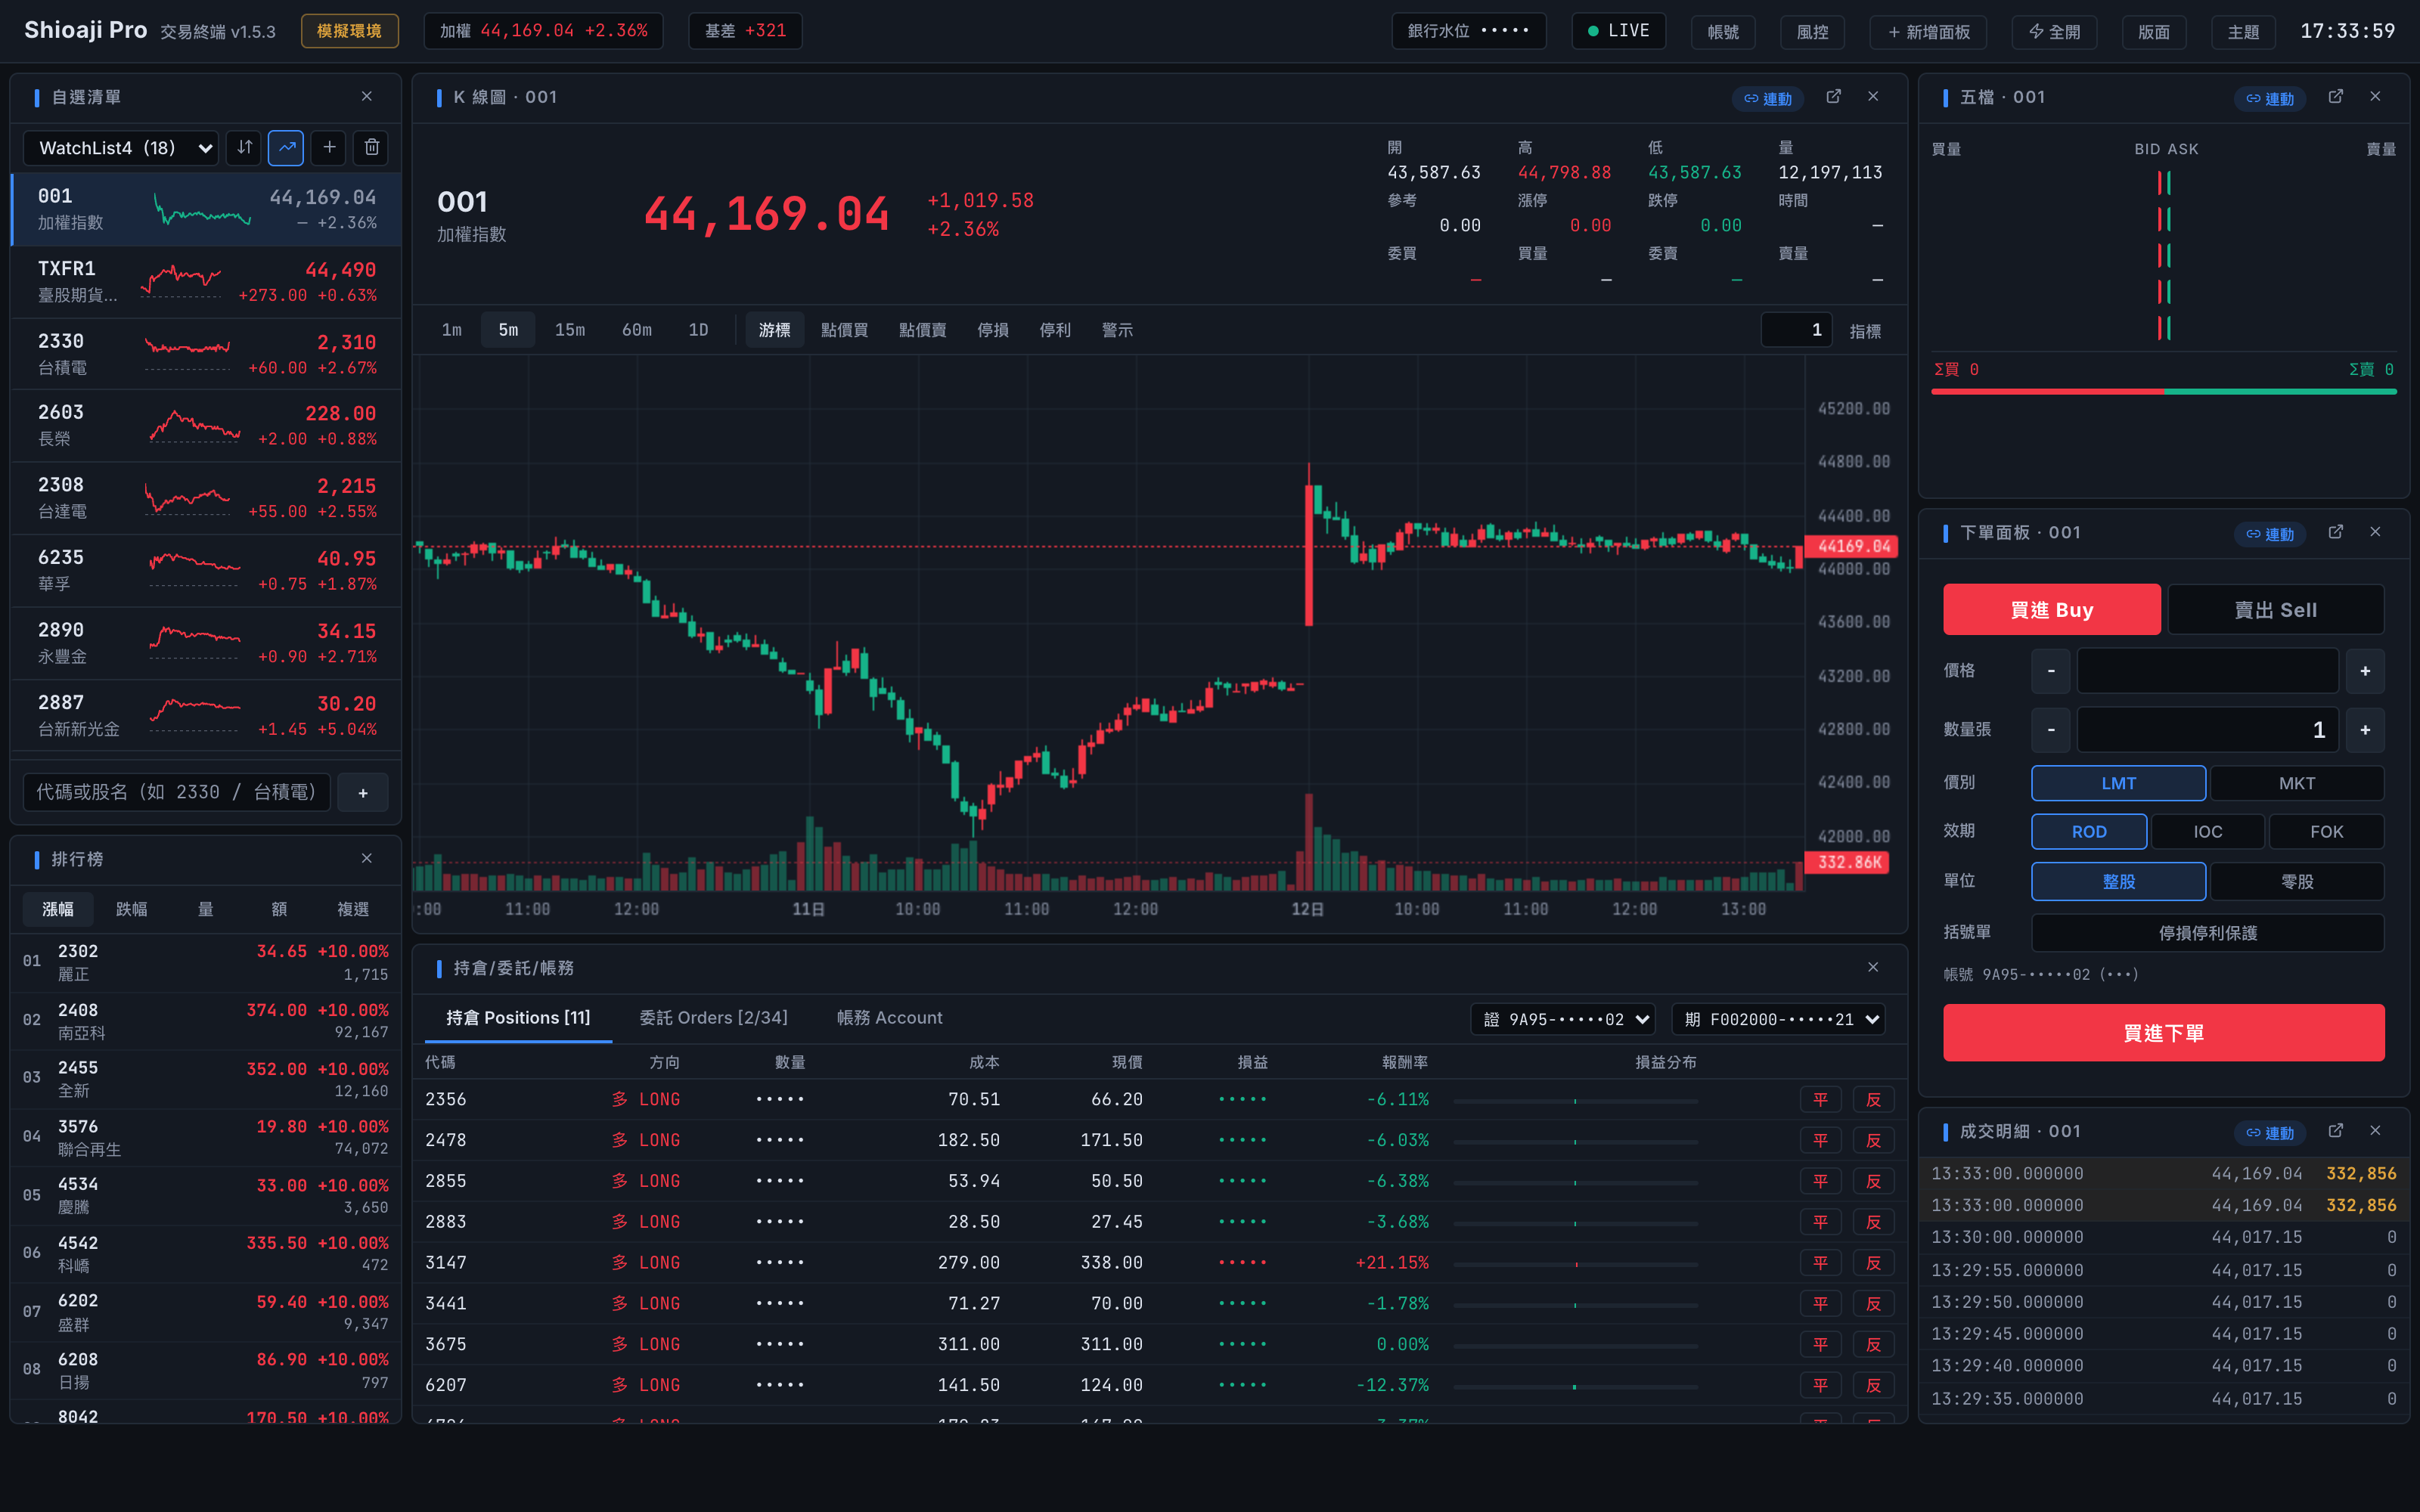
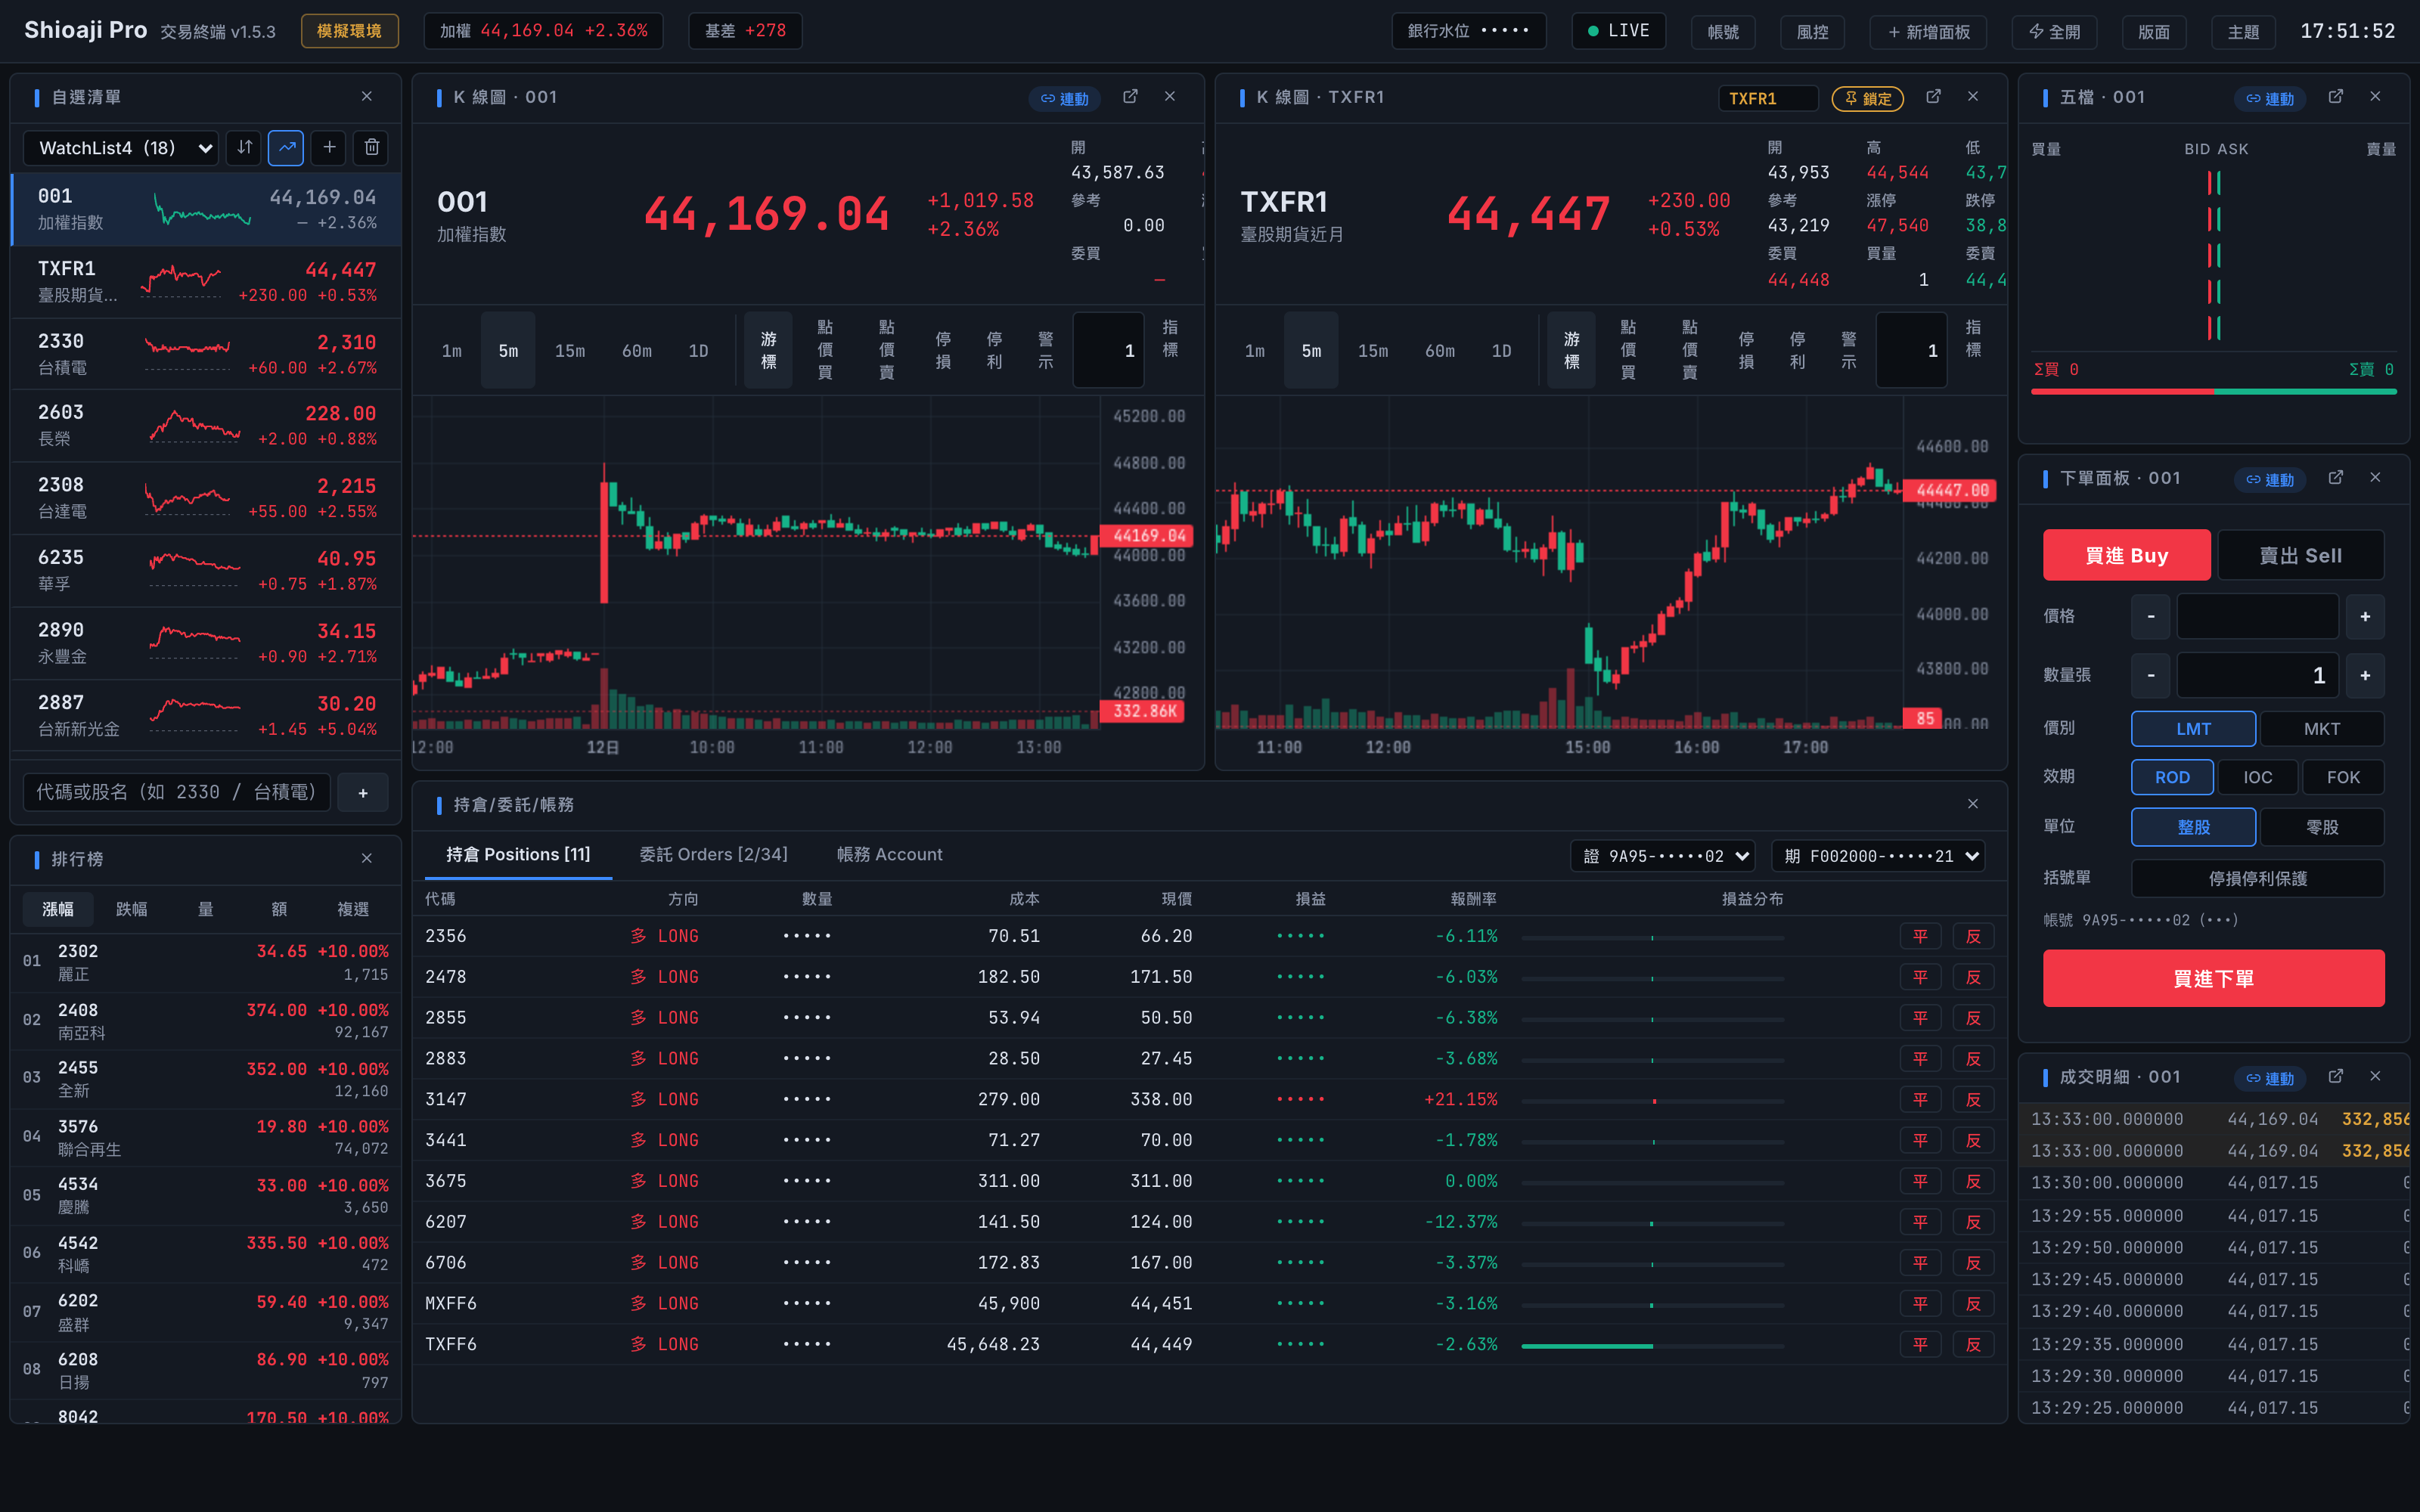
Landing hero: dual-chart layout (加權+台指期); 3 new layout presets
- Hero screenshots retaken with two candle charts side by side (linked
  001 + pinned TXFR1) to show terminal completeness; privacy mode on
- New 版面 presets built around the new panels: 鋪單交易 (grid+flash+
  depth/tape), 熱力選股 (heatmap+movers→chart), AI 副駕 (assistant
  sidebar + chart/dock/notices); 選擇權 preset gains the payoff panel

diff --git a/src/lib/workspace.ts b/src/lib/workspace.ts
@@ -255,7 +255,7 @@ export const LAYOUT_PRESETS: { name: string; desc: string; workspace: Workspace 
     },
     {
         name: '選擇權',
-        desc: 'T字報價+台指期圖+下單',
+        desc: 'T字報價+台指期圖+損益圖+下單',
         workspace: {
             blocks: [
                 { id: 'opt-ow', type: 'optchain', pin: null },
@@ -263,13 +263,77 @@ export const LAYOUT_PRESETS: { name: string; desc: string; workspace: Workspace 
                 { id: 'ticket-ow', type: 'ticket', pin: null },
                 { id: 'depth-ow', type: 'depth', pin: null },
                 { id: 'dock-ow', type: 'dock', pin: null },
+                { id: 'optpnl-ow', type: 'optpnl', pin: null },
             ],
             layout: [
                 { i: 'opt-ow', x: 0, y: 0, w: 10, h: 16, minW: 8, minH: 8 },
                 { i: 'chart-ow', x: 10, y: 0, w: 9, h: 16, minW: 6, minH: 7 },
                 { i: 'ticket-ow', x: 19, y: 0, w: 5, h: 10, minW: 4, minH: 9 },
                 { i: 'depth-ow', x: 19, y: 10, w: 5, h: 6, minW: 4, minH: 6 },
-                { i: 'dock-ow', x: 0, y: 16, w: 24, h: 8, minW: 6, minH: 5 },
+                { i: 'dock-ow', x: 0, y: 16, w: 16, h: 9, minW: 6, minH: 5 },
+                { i: 'optpnl-ow', x: 16, y: 16, w: 8, h: 9, minW: 6, minH: 9 },
+            ],
+        },
+    },
+    {
+        name: '鋪單交易',
+        desc: '鋪單+閃電+五檔明細，掛單火力全開',
+        workspace: {
+            blocks: [
+                { id: 'chart-gr', type: 'chart', pin: null },
+                { id: 'flash-gr', type: 'flash', pin: null },
+                { id: 'grid-gr', type: 'grid', pin: null },
+                { id: 'depth-gr', type: 'depth', pin: null },
+                { id: 'dock-gr', type: 'dock', pin: null },
+                { id: 'tape-gr', type: 'tape', pin: null },
+            ],
+            layout: [
+                { i: 'chart-gr', x: 0, y: 0, w: 12, h: 14, minW: 6, minH: 7 },
+                { i: 'flash-gr', x: 12, y: 0, w: 6, h: 14, minW: 4, minH: 8 },
+                { i: 'grid-gr', x: 18, y: 0, w: 6, h: 14, minW: 4, minH: 10 },
+                { i: 'depth-gr', x: 0, y: 14, w: 6, h: 10, minW: 4, minH: 7 },
+                { i: 'dock-gr', x: 6, y: 14, w: 12, h: 10, minW: 6, minH: 5 },
+                { i: 'tape-gr', x: 18, y: 14, w: 6, h: 10, minW: 3, minH: 4 },
+            ],
+        },
+    },
+    {
+        name: '熱力選股',
+        desc: '熱力圖+排行掃標的，點格即連動全終端',
+        workspace: {
+            blocks: [
+                { id: 'heatmap-hs', type: 'heatmap', pin: null },
+                { id: 'movers-hs', type: 'movers', pin: null },
+                { id: 'watch-hs', type: 'watchlist', pin: null },
+                { id: 'chart-hs', type: 'chart', pin: null },
+                { id: 'dock-hs', type: 'dock', pin: null },
+            ],
+            layout: [
+                { i: 'heatmap-hs', x: 0, y: 0, w: 14, h: 12, minW: 5, minH: 6 },
+                { i: 'movers-hs', x: 14, y: 0, w: 10, h: 12, minW: 3, minH: 5 },
+                { i: 'watch-hs', x: 0, y: 12, w: 6, h: 12, minW: 3, minH: 6 },
+                { i: 'chart-hs', x: 6, y: 12, w: 12, h: 12, minW: 6, minH: 7 },
+                { i: 'dock-hs', x: 18, y: 12, w: 6, h: 12, minW: 6, minH: 5 },
+            ],
+        },
+    },
+    {
+        name: 'AI 副駕',
+        desc: 'AI Agent 常駐側欄，看盤帳務通知一條龍',
+        workspace: {
+            blocks: [
+                { id: 'assistant-ai', type: 'assistant', pin: null },
+                { id: 'chart-ai', type: 'chart', pin: null },
+                { id: 'dock-ai', type: 'dock', pin: null },
+                { id: 'watch-ai', type: 'watchlist', pin: null },
+                { id: 'notices-ai', type: 'notices', pin: null },
+            ],
+            layout: [
+                { i: 'assistant-ai', x: 0, y: 0, w: 7, h: 24, minW: 5, minH: 9 },
+                { i: 'chart-ai', x: 7, y: 0, w: 11, h: 14, minW: 6, minH: 7 },
+                { i: 'dock-ai', x: 7, y: 14, w: 11, h: 10, minW: 6, minH: 5 },
+                { i: 'watch-ai', x: 18, y: 0, w: 6, h: 14, minW: 3, minH: 6 },
+                { i: 'notices-ai', x: 18, y: 14, w: 6, h: 10, minW: 4, minH: 6 },
             ],
         },
     },

diff --git a/scripts/capture-landing-shots4.py b/scripts/capture-landing-shots4.py
@@ -1,0 +1,79 @@
+# scripts/capture-landing-shots4.py — pass 4: dual-chart hero (加權 + 台指期)
+# with privacy mode, to show off completeness on the landing page.
+# Run: uv run --python 3.12 --with playwright==1.52.0 python scripts/capture-landing-shots4.py
+
+import json
+import sys
+import time
+from pathlib import Path
+
+from playwright.sync_api import sync_playwright
+
+OUT = Path(__file__).resolve().parent.parent / "docs"
+BASE = "http://localhost:5173"
+
+WS = {
+    "blocks": [
+        {"id": "watchlist-0", "type": "watchlist", "pin": None},
+        {"id": "movers-0", "type": "movers", "pin": None},
+        {"id": "chart-a", "type": "chart", "pin": None},
+        {"id": "chart-b", "type": "chart", "pin": "TXFR1"},
+        {"id": "dock-0", "type": "dock", "pin": None},
+        {"id": "depth-0", "type": "depth", "pin": None},
+        {"id": "ticket-0", "type": "ticket", "pin": None},
+        {"id": "tape-0", "type": "tape", "pin": None},
+    ],
+    "layout": [
+        {"i": "watchlist-0", "x": 0, "y": 0, "w": 4, "h": 14, "minW": 3, "minH": 6},
+        {"i": "movers-0", "x": 0, "y": 14, "w": 4, "h": 11, "minW": 3, "minH": 5},
+        {"i": "chart-a", "x": 4, "y": 0, "w": 8, "h": 13, "minW": 6, "minH": 7},
+        {"i": "chart-b", "x": 12, "y": 0, "w": 8, "h": 13, "minW": 6, "minH": 7},
+        {"i": "dock-0", "x": 4, "y": 13, "w": 16, "h": 12, "minW": 6, "minH": 5},
+        {"i": "depth-0", "x": 20, "y": 0, "w": 4, "h": 7, "minW": 4, "minH": 7},
+        {"i": "ticket-0", "x": 20, "y": 7, "w": 4, "h": 11, "minW": 4, "minH": 10},
+        {"i": "tape-0", "x": 20, "y": 18, "w": 4, "h": 7, "minW": 3, "minH": 4},
+    ],
+}
+
+
+def seed(page, mode):
+    page.goto(BASE)
+    page.evaluate(
+        """([ws, mode]) => {
+            localStorage.setItem('sj-pro-workspace-v2', ws);
+            localStorage.setItem('sj-pro-watchlist-spark', '1');
+            localStorage.setItem('sj-pro-privacy-mode', '1');
+            localStorage.setItem('sj-pro-privacy-money', '1');
+            localStorage.setItem('sj-pro-theme', JSON.stringify({mode, convention:'tw', fontScale:1}));
+        }""",
+        [json.dumps(WS), mode],
+    )
+    page.reload()
+
+
+def main():
+    with sync_playwright() as p:
+        browser = p.chromium.launch()
+        for mode, scheme, fname in [
+            ("dark", "dark", "shot-terminal-dark.png"),
+            ("light", "light", "shot-terminal-light.png"),
+        ]:
+            ctx = browser.new_context(
+                viewport={"width": 1600, "height": 1000},
+                device_scale_factor=2,
+                color_scheme=scheme,
+                locale="zh-TW",
+                timezone_id="Asia/Taipei",
+            )
+            page = ctx.new_page()
+            seed(page, mode)
+            print("waiting for live data...", mode)
+            time.sleep(18)
+            page.screenshot(path=str(OUT / fname))
+            print("saved", fname)
+            ctx.close()
+        browser.close()
+
+
+if __name__ == "__main__":
+    sys.exit(main())